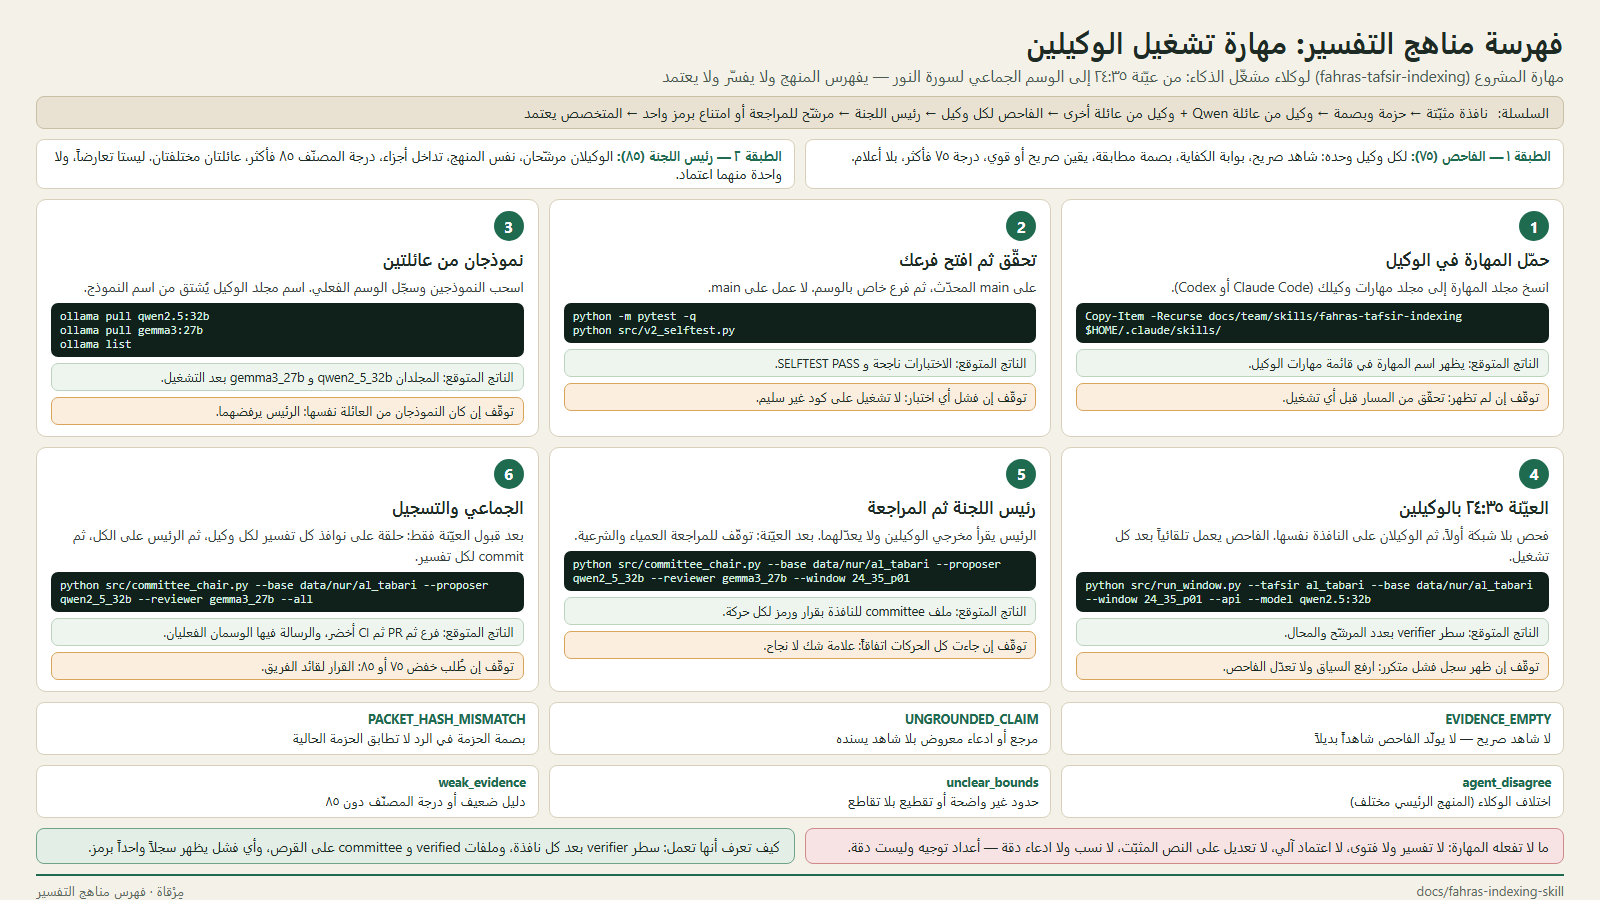
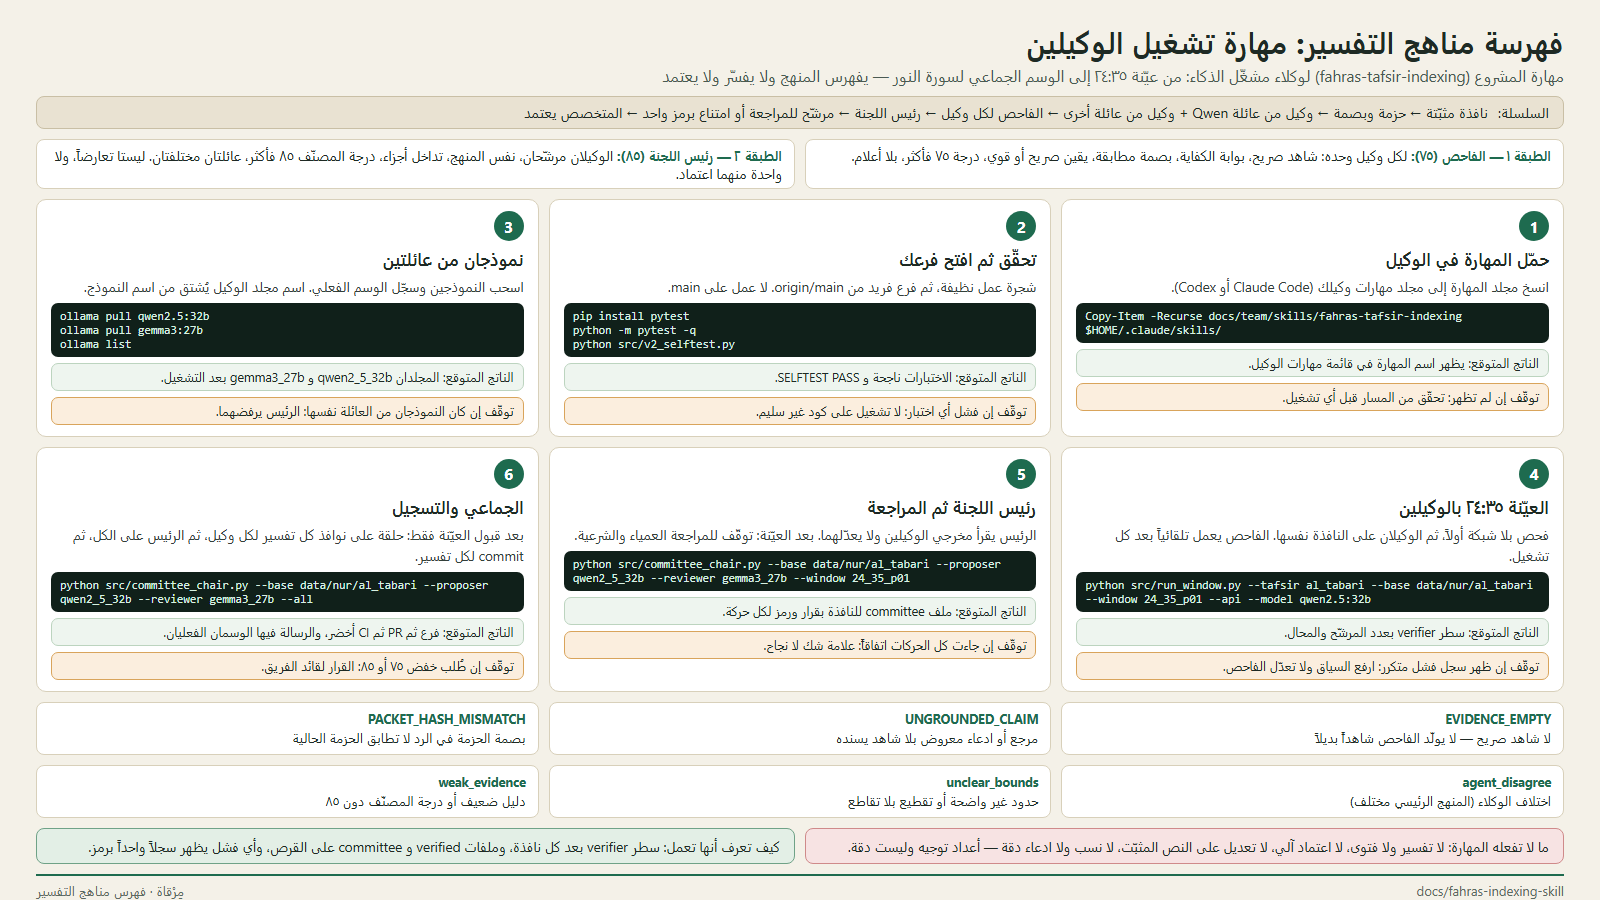
docs(skill): unique branch from origin/main, install pytest before gates
Codex review P1 x2.

Changed region(s): [[0.3438, 0.3111, 0.6562, 0.4978]]

diff --git a/docs/branches/docs-fahras-indexing-skill/usage.html b/docs/branches/docs-fahras-indexing-skill/usage.html
@@ -38,7 +38,8 @@ code{direction:ltr;unicode-bidi:isolate;display:block;background:#10201a;color:#
 </div>
 <div class="steps">
 <div class="step"><div class="num">1</div><h2>حمّل المهارة في الوكيل</h2><p>انسخ مجلد المهارة إلى مجلد مهارات وكيلك (Claude Code أو Codex).</p><code><bdi>Copy-Item -Recurse docs/team/skills/fahras-tafsir-indexing $HOME/.claude/skills/</bdi></code><div class="exp">الناتج المتوقع: يظهر اسم المهارة في قائمة مهارات الوكيل.</div><div class="stop">توقّف إن لم تظهر: تحقّق من المسار قبل أي تشغيل.</div></div>
-<div class="step"><div class="num">2</div><h2>تحقّق ثم افتح فرعك</h2><p>على main المحدّث، ثم فرع خاص بالوسم. لا عمل على main.</p><code><bdi>python -m pytest -q
+<div class="step"><div class="num">2</div><h2>تحقّق ثم افتح فرعك</h2><p>شجرة عمل نظيفة، ثم فرع فريد من origin/main. لا عمل على main.</p><code><bdi>pip install pytest
+python -m pytest -q
 python src/v2_selftest.py</bdi></code><div class="exp">الناتج المتوقع: الاختبارات ناجحة و SELFTEST PASS.</div><div class="stop">توقّف إن فشل أي اختبار: لا تشغيل على كود غير سليم.</div></div>
 <div class="step"><div class="num">3</div><h2>نموذجان من عائلتين</h2><p>اسحب النموذجين وسجّل الوسم الفعلي. اسم مجلد الوكيل يُشتق من اسم النموذج.</p><code><bdi>ollama pull qwen2.5:32b
 ollama pull gemma3:27b
@@ -63,3 +64,4 @@ ollama list</bdi></code><div class="exp">الناتج المتوقع: المجل
 </div>
 </body>
 </html>
+

diff --git a/docs/team/skills/fahras-tafsir-indexing/references/runbook.md b/docs/team/skills/fahras-tafsir-indexing/references/runbook.md
@@ -14,11 +14,13 @@
 ## ١. التحقق والفرع
 
 ```powershell
-git checkout main; git pull
-git checkout -b tagging/nur-sample
+git status                          # يجب أن تكون شجرة العمل نظيفة؛ وإلا توقّف واسأل المشغّل
+git fetch origin
+git switch -c tagging/nur-<tafsir>-<operator>-<YYYYMMDD> origin/main   # اسم فريد لكل تشغيل، لا عمل على main
 pip install -r requirements.txt
+pip install pytest                  # ليست في requirements.txt؛ CI يثبّتها بالطريقة نفسها
 python -m pytest -q
-python src/v2_selftest.py          # يجب: SELFTEST PASS
+python src/v2_selftest.py           # يجب: SELFTEST PASS
 ```
 
 ## ٢. جلسة الطرفية (لا تُحفظ في ملف)
@@ -101,7 +103,7 @@ python src/run_surah.py --db "<path>/quran.db" --tafsir al_tabari --surah 24 --b
 ```powershell
 git add data/nur/al_tabari/moves data/nur/al_tabari/verified data/nur/al_tabari/committee
 git commit -m "data(nur): al_tabari tagged — qwen2.5:32b + gemma3:27b (ollama-local) 2026-10-05"
-git push -u origin tagging/nur-sample
+git push -u origin HEAD              # يدفع فرعك أنت، لا main
 ```
 
 ثم PR ← CI أخضر ← مراجعة. **لا push على `main`.** لا تُرفع `quran.db` أبداً.

diff --git a/docs/team/skills/fahras-tafsir-indexing/SKILL.md b/docs/team/skills/fahras-tafsir-indexing/SKILL.md
@@ -25,7 +25,7 @@ description: فهرسة مناهج التفسير — run the project's two-agen
 
 ## الإجراء
 
-1. **تحقّق قبل أي شيء:** على `main` المحدّث، `python -m pytest -q` و`python src/v2_selftest.py` ← PASS. على فرعك أنت، لا `main`.
+1. **تحقّق قبل أي شيء:** شجرة عمل نظيفة، ثم فرع فريد من `origin/main` (`tagging/nur-<tafsir>-<operator>-<YYYYMMDD>`)، ثم `pip install pytest` و`python -m pytest -q` و`python src/v2_selftest.py` ← PASS. لا عمل على `main`.
 2. **جلسة الطرفية فقط:** `LLM_API_KEY=ollama` و`LLM_BASE_URL=http://localhost:11434/v1` و`PYTHONIOENCODING=utf-8`. لا مفتاح في ملف ولا git ولا محادثة.
 3. **النماذج:** `ollama pull` لعائلتين مختلفتين، ثم `ollama list` وسجّل **الوسم الفعلي**. اسم مجلد الوكيل = `model_slug(model)`: `qwen2.5:32b` ← `qwen2_5_32b`.
 4. **`--dry-run` أولاً** لكل نافذة جديدة: يجب أن يطبع `packet_sha256` وعدد الأجزاء دون شبكة.
